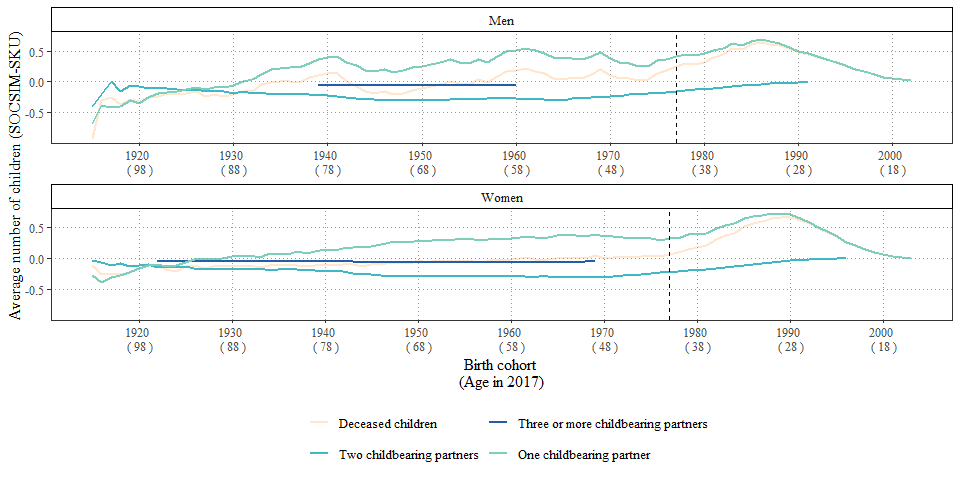
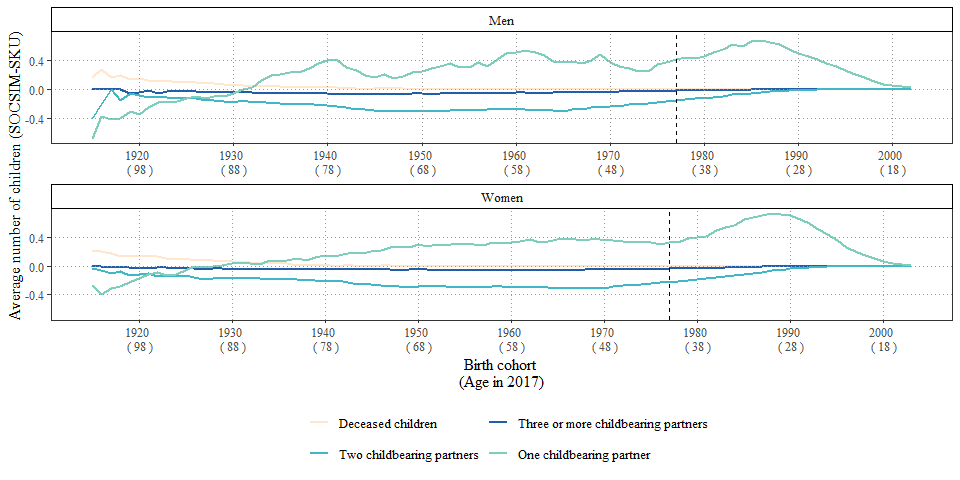
Estimate actual number of registered deceased for Figure 2b

diff --git a/2_Compare_Figures.md b/2_Compare_Figures.md
@@ -2,7 +2,7 @@ Kinship networks over time: comparing Swedish population registers and
 microsimulation outputs
 ================
 …
-2024-02-19
+2024-02-20
 
 ``` r
 library(tidyverse)
@@ -432,12 +432,25 @@ Fig2b_SKU <- ggplot() +
 # Plot difference
 Fig2b_Diff <- left_join(SKU %>% 
                           filter(Fig == "Fig2b") %>% 
-                          select(IDbirthYear, Kon, mean_children_SKU = mean_children, type) %>% 
-                          mutate(Type = ifelse(type == "registered deceased", "not living", type), 
-                                 Type = factor(Type, levels = c("not living", ">2", "2", "1"))),
+                          select(IDbirthYear, Kon, mean_children, type) %>% 
+                          pivot_wider(names_from = type, values_from = mean_children) %>% 
+                          mutate_at(c(3:6), ~ replace_na(.,0)) %>% 
+                          # The registered deceased from the table include both the living and the deceased
+                          # So, we need to estimate the actual number of deceased
+                          mutate(`not living` = `registered deceased` - `1` - `2` - `>2`) %>%
+                          select(-`registered deceased`) %>% 
+                          pivot_longer(cols = c(3:6), 
+                                       names_to = "Type", values_to = "mean_children_SKU"),
                         child_table %>% 
-                          rename(mean_children_SOCSIM = mean_children)) %>% 
-  mutate(Difference = mean_children_SOCSIM - mean_children_SKU) %>%
+                          pivot_wider(names_from = Type, values_from = mean_children) %>% 
+                          rename(all = `not living`) %>% 
+                          mutate_at(c(3:6), ~ replace_na(.,0)) %>% 
+                          mutate(`not living` = all - `1` - `2` - `>2`) %>%
+                          select(-all) %>% 
+                          pivot_longer(cols = c(3:6), 
+                                       names_to = "Type", values_to = "mean_children_SOCSIM")) %>% 
+  mutate(Difference = mean_children_SOCSIM - mean_children_SKU, 
+         Type = factor(Type, levels = c("not living", ">2", "2", "1"))) %>%
   filter(!is.na(Difference)) %>% 
   ggplot()+
   geom_line(aes(x = IDbirthYear, y = Difference, color = Type), linewidth =1) +
@@ -1077,7 +1090,7 @@ Fig5b_SKU <- ggplot() +
             filter(Fig == "Fig5b" & type != "registered deceased"), 
             mapping = aes(x = IDbirthYear, y =  mean_cousins, fill = type), 
             color = "#4D4D4D", lwd = 0.5)+
-  geom_area(data=data.frame(x = c(1950,1977), y = c(0,8.5)), aes(x=x,y=y), fill = "#FFFFFF", alpha = 0.2) + 
+  geom_area(data=data.frame(x = c(1950,1977), y = c(8.5,8.5)), aes(x=x,y=y), fill = "#FFFFFF", alpha = 0.2) + 
   geom_area(data=data.frame(x = c(2017-19,2017), y = c(7,7)), aes(x=x,y=y), fill = "#FFFFFF", alpha = 0.2) + 
   geom_vline(xintercept = c(1977, 2017-19), color = "#000000", lty = 2) +
   scale_fill_manual(values = c("#FFE6CC", "#253494", "#2C7FB8", "#41B6C4", "#A1DAB4"),                     limits = c("registered deceased", "father.brother", "father.sister",
